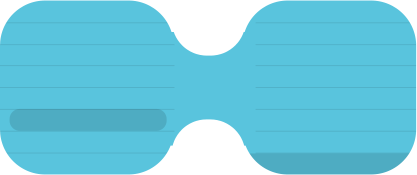
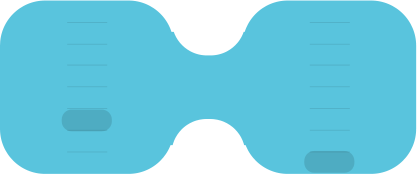
Updated bricks and sounds

diff --git a/Musical madlibs/Musical madlibs.js b/Musical madlibs/Musical madlibs.js
@@ -22,22 +22,34 @@ var track2Revealed = false
 
 var track1 = makeTrack(openTrackLength, totalTrackLength)
 
-var threeSnippet = makeSnippet("3 Brick - orange - C E G", 3, ["cat_e", "cat_gsharp", "cat_b"], track1)
-threeSnippet.layer.position = Layer.root.position
+var track1Snippet1 = makeSnippet("3 Brick - orange - C E G", 3, ["cat_e", "cat_gsharp", "cat_b"], track1)
+track1Snippet1.layer.position = Layer.root.position
 
-var twoSnippet = makeSnippet("2 Brick - blue - E C", 2, ["dog_gsharp", "dog_e"], track1)
-twoSnippet.layer.position = Layer.root.position
-twoSnippet.layer.y -= 150
+var track1Snippet2 = makeSnippet("2 Brick - blue - E C", 2, ["dog_gsharp", "dog_e"], track1)
+track1Snippet2.layer.position = Layer.root.position
+track1Snippet2.layer.y -= 150
 
 var track2 = makeTrack(openTrackLength, totalTrackLength)
 track2.layer.originY = Layer.root.frameMaxY
 
-var oneSnippet = makeSnippet("1 Brick - orange - C8", 1, ["cat_e8"], track2)
-oneSnippet.layer.position = twoSnippet.layer.position
+var track2Snippet1 = makeSnippet("1 Brick - orange - C8", 1, ["cat_e8"], track2)
+track2Snippet1.layer.position = track1Snippet2.layer.position
 
-var twoSnippetAlt = makeSnippet("2 Brick - orange - F E", 2, ["cat_a", "cat_gsharp"], track2)
-twoSnippetAlt.layer.position = twoSnippet.layer.position
-twoSnippetAlt.layer.x += 300
+var track2Snippet2 = makeSnippet("2 Brick - orange - F E", 2, ["cat_a", "cat_gsharp"], track2)
+track2Snippet2.layer.position = track1Snippet2.layer.position
+track2Snippet2.layer.x += 300
+
+var track2Snippet3 = makeSnippet("2 Brick - blue - C C", 2, ["dog_e", "dog_e"], track2)
+track2Snippet3.layer.position = track1Snippet1.layer.position
+
+var track2Snippet4 = makeSnippet("2 Brick - blue - F E", 2, ["dog_a", "dog_gsharp"], track2)
+track2Snippet4.layer.position = track1Snippet1.layer.position
+track2Snippet4.layer.x += 300
+
+var track2Snippet5 = makeSnippet("1 Brick - blue - G", 1, ["dog_b"], track2)
+track2Snippet5.layer.position = track2Snippet1.layer.position
+track2Snippet5.layer.x -= 250
+track2Snippet5.layer.y += 75
 
 //============================================================================================
 // Audio
